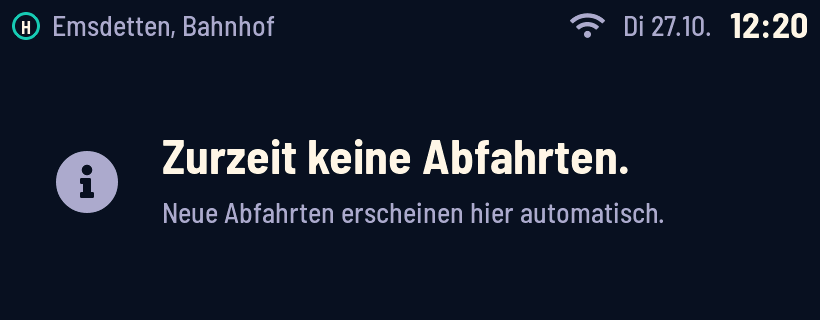
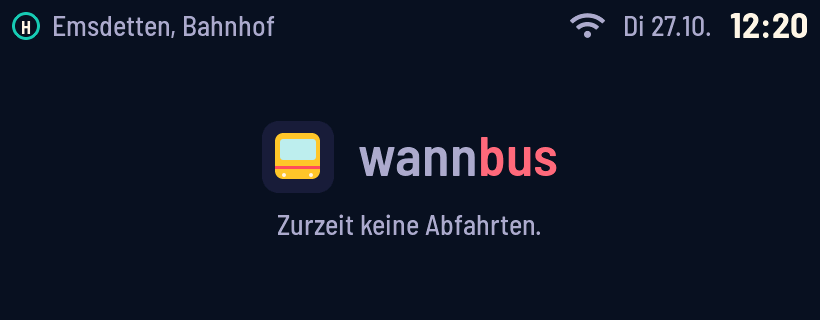
Marke im Leerlauf und auf freier Restfläche des Displays
Keine Abfahrten: Logo + Wortmarke mittig, darunter der Grund. Weniger
Abfahrten als Zeilen: Karten bleiben oben, im Rest die gedämpfte Marke
(groß/klein nach freiem Platz). Größe entscheidet lib/dispmodel
(brandForFreeSlots), geteilte Ansicht ohne Marke.

Changed region(s): [[0.1829, 0.375, 0.8232, 0.75], [0.061, 0.4688, 0.1524, 0.6875]]

diff --git a/src/ui/ui.cpp b/src/ui/ui.cpp
@@ -172,19 +172,34 @@ void logo(lv_obj_t *scr, int32_t x, int32_t y, int32_t size) {
   box(scr, x + s(83) - d / 2, y + s(90) - d / 2, d, d, abf::brand::kCream, LV_RADIUS_CIRCLE);
 }
 
-// Wortmarke „wann“ + „bus“ (Koralle) mit Grundlinie bei baseY; gibt die rechte Kante zurück
-int32_t wordmark(lv_obj_t *scr, const Palette &p, const lv_font_t *font, int32_t x, int32_t baseY) {
-  placeBaseline(label(scr, "wann", font, p.text), font, x, baseY);
+// Wortmarke „wann“ + „bus“ (Koralle) mit Grundlinie bei baseY; gibt die rechte Kante zurück.
+// Gedämpft (Leerlauf): „wann“ in muted, „bus“ in coral_text – nie stärker als eine Abfahrtszeile.
+int32_t wordmark(lv_obj_t *scr, const Palette &p, const lv_font_t *font, int32_t x, int32_t baseY, bool muted = false) {
+  placeBaseline(label(scr, "wann", font, muted ? p.muted : p.text), font, x, baseY);
   x += textWidth("wann", font);
-  placeBaseline(label(scr, "bus", font, abf::brand::kCoral), font, x, baseY);
+  placeBaseline(label(scr, "bus", font, muted ? p.coral : abf::brand::kCoral), font, x, baseY);
   return x + textWidth("bus", font);
+}
+
+int32_t brandWidth(const lv_font_t *font, int32_t iconSize) {
+  return iconSize + iconSize / 3 + textWidth("wann", font) + textWidth("bus", font);
 }
 
 // Logo + Wortmarke nebeneinander, Logo vertikal mittig zur Schrift
 void brandRow(lv_obj_t *scr, const Palette &p, const lv_font_t *font, int32_t iconSize, int32_t x, int32_t top,
-              int32_t height) {
+              int32_t height, bool muted = false) {
   logo(scr, x, top + (height - iconSize) / 2, iconSize);
-  wordmark(scr, p, font, x + iconSize + iconSize / 3, top + (height + capHeight(font)) / 2);
+  wordmark(scr, p, font, x + iconSize + iconSize / 3, top + (height + capHeight(font)) / 2, muted);
+}
+
+// Marke im freien Bereich [top, bottom) waagerecht und senkrecht mittig, gedämpft; gibt die Unterkante zurück
+int32_t brandCentered(lv_obj_t *scr, const Palette &p, abf::BrandMark mark, int32_t top, int32_t bottom) {
+  const bool large = mark == abf::BrandMark::Large;
+  const lv_font_t *font = large ? &ui_font_dest3 : &ui_font_dest4;
+  const int32_t icon = large ? 72 : 40;
+  const int32_t y = top + (bottom - top - icon) / 2;
+  brandRow(scr, p, font, icon, (kWidth - brandWidth(font, icon)) / 2, y, icon, true);
+  return y + icon;
 }
 
 // --- Kopfzeile -------------------------------------------------------------
@@ -298,15 +313,16 @@ void row(lv_obj_t *scr, const RowView &r, const RowMetrics &m, const Palette &p,
 }
 
 // Karten untereinander zwischen top und bottom; erste Karte hervorgehoben
-void cards(lv_obj_t *scr, const SectionView &s, const RowMetrics &m, const Palette &p, int32_t top, int32_t bottom,
-           int32_t slots) {
+// Gibt die Unterkante der letzten Karte zurück
+int32_t cards(lv_obj_t *scr, const SectionView &s, const RowMetrics &m, const Palette &p, int32_t top, int32_t bottom,
+              int32_t slots) {
   const int32_t rowH = (bottom - top - (slots - 1) * kGap) / std::max<int32_t>(1, slots);
   if (s.rows.empty()) {
     lv_obj_t *msg = label(scr, s.message, &ui_font_body, p.muted);
     singleLine(msg, &ui_font_body, kRight - kPadX);
     lv_obj_set_style_text_align(msg, LV_TEXT_ALIGN_CENTER, 0);
     placeBaseline(msg, &ui_font_body, kPadX, top + (bottom - top + capHeight(&ui_font_body)) / 2);
-    return;
+    return bottom;
   }
   const size_t n = std::min(s.rows.size(), static_cast<size_t>(std::max<int32_t>(0, slots)));
   int32_t badgeW = 0;
@@ -315,6 +331,7 @@ void cards(lv_obj_t *scr, const SectionView &s, const RowMetrics &m, const Palet
     row(scr, s.rows[i], m, p, kPadX, top + static_cast<int32_t>(i) * (rowH + kGap), kRight - kPadX, rowH, badgeW,
         i == 0);
   }
+  return n ? top + static_cast<int32_t>(n) * (rowH + kGap) - kGap : top;
 }
 
 // --- Bildschirme -----------------------------------------------------------
@@ -352,7 +369,10 @@ void drawBoard(lv_obj_t *scr, const View &v, const Palette &p) {
     bottom = y - kGap;
   }
   const int32_t slots = v.banner.empty() ? v.rows : v.rows - 1;
-  if (!v.sections.empty()) cards(scr, v.sections.front(), m, p, kPadY + headH + kGap, bottom, slots);
+  if (v.sections.empty()) return;
+  const int32_t used = cards(scr, v.sections.front(), m, p, kPadY + headH + kGap, bottom, slots);
+  // Weniger Abfahrten als Zeilen: Karten bleiben oben, im freien Rest die Marke (Größe entscheidet lib/dispmodel)
+  if (v.brandMark != abf::BrandMark::None) brandCentered(scr, p, v.brandMark, used, bottom);
 }
 
 const char *iconGlyph(Icon i) {
@@ -407,7 +427,18 @@ void drawMessage(lv_obj_t *scr, const View &v, const Palette &p) {
   const int32_t headH = headerHeight(v);
   header(scr, v, p, v.title, kPadY, headH, true);
   const int32_t bottom = v.address.empty() ? kHeight - kPadY : kHeight - kAddressH;
-  messageBlock(scr, p, v.icon, v.heading, v.text, kPadY + headH, bottom);
+  if (v.brandMark != abf::BrandMark::None) {
+    // Keine Abfahrten: ruhige Fläche mit Marke, darunter klein der Grund
+    const int32_t top = kPadY + headH;
+    const int32_t textH = capHeight(&ui_font_small) + 22;
+    const int32_t markBottom = brandCentered(scr, p, v.brandMark, top, bottom - textH);
+    lv_obj_t *t = label(scr, v.heading, &ui_font_small, p.muted);
+    singleLine(t, &ui_font_small, kRight - kPadX);
+    lv_obj_set_style_text_align(t, LV_TEXT_ALIGN_CENTER, 0);
+    placeBaseline(t, &ui_font_small, kPadX, markBottom + 22 + capHeight(&ui_font_small));
+  } else {
+    messageBlock(scr, p, v.icon, v.heading, v.text, kPadY + headH, bottom);
+  }
   if (!v.address.empty()) {
     // Adresse der Web-UI, damit man die Tafel auch ohne funktionierendes .local findet
     lv_obj_t *a = label(scr, v.address, &ui_font_small, p.muted);

diff --git a/lib/dispmodel/src/display_model.cpp b/lib/dispmodel/src/display_model.cpp
@@ -56,7 +56,7 @@ bool SectionView::operator==(const SectionView &o) const {
 
 bool View::operator==(const View &o) const {
   return screen == o.screen && theme == o.theme && backlight == o.backlight && header == o.header &&
-         title == o.title && brand == o.brand && clock == o.clock && date == o.date && wifi == o.wifi && updateAvailable == o.updateAvailable && page == o.page &&
+         title == o.title && brand == o.brand && brandMark == o.brandMark && clock == o.clock && date == o.date && wifi == o.wifi && updateAvailable == o.updateAvailable && page == o.page &&
          sections == o.sections && rows == o.rows && banner == o.banner && icon == o.icon &&
          heading == o.heading && text == o.text && steps == o.steps && qr == o.qr &&
          qrCaption == o.qrCaption && progress == o.progress && address == o.address;
@@ -108,6 +108,13 @@ std::string wifiQrPayload(const std::string &ssid) {
     esc += c;
   }
   return "WIFI:S:" + esc + ";T:nopass;;";
+}
+
+BrandMark brandForFreeSlots(size_t freeSlots, uint32_t rows) {
+  const uint32_t freePx = static_cast<uint32_t>(freeSlots) * (rows <= 3 ? kCardPx3 : kCardPx4);
+  if (freePx >= 150) return BrandMark::Large;
+  if (freePx >= 78) return BrandMark::Small;
+  return BrandMark::None;
 }
 
 RowView makeRow(const BoardRow &r, bool compactTrack) {
@@ -369,6 +376,7 @@ View buildScreen(const ViewInputs &in) {
   if (s.rows.empty()) {
     const BoardStatus st = s.status.status == BoardStatus::Ok ? BoardStatus::NoDepartures : s.status.status;
     messageScreen(v, statusIcon(st), boardStatusText(st), statusHint(st));
+    if (st == BoardStatus::NoDepartures) v.brandMark = BrandMark::Large;  // ruhige Fläche mit Marke statt Info-Symbol
     return v;
   }
 
@@ -380,6 +388,7 @@ View buildScreen(const ViewInputs &in) {
   }
   SectionView sec;
   for (size_t r = 0; r < s.rows.size() && r < rows; ++r) sec.rows.push_back(makeRow(s.rows[r], false));
+  v.brandMark = brandForFreeSlots(rows - sec.rows.size(), v.rows);
   v.sections.push_back(std::move(sec));
   return v;
 }

diff --git a/test/test_dispmodel/test_main.cpp b/test/test_dispmodel/test_main.cpp
@@ -191,6 +191,24 @@ static void test_view_brand_header_without_stop(void) {
   TEST_ASSERT_FALSE(buildView(boardInputs()).brand);  // mit Haltestelle: Ring + Name
 }
 
+static void test_brand_mark_in_free_space(void) {
+  // 4 Zeilen: 1 belegt → groß, 2 belegt → klein, 3–4 belegt → keine
+  TEST_ASSERT_EQUAL_INT(static_cast<int>(BrandMark::Large), static_cast<int>(buildView(boardInputs(1, 1)).brandMark));
+  TEST_ASSERT_EQUAL_INT(static_cast<int>(BrandMark::Small), static_cast<int>(buildView(boardInputs(1, 2)).brandMark));
+  TEST_ASSERT_EQUAL_INT(static_cast<int>(BrandMark::None), static_cast<int>(buildView(boardInputs(1, 3)).brandMark));
+  TEST_ASSERT_EQUAL_INT(static_cast<int>(BrandMark::None), static_cast<int>(buildView(boardInputs(1, 4)).brandMark));
+  // 3 Zeilen: 1 belegt → groß, 2 belegt → klein
+  ViewInputs in = boardInputs(1, 2);
+  in.cfg.rows = 3;
+  TEST_ASSERT_EQUAL_INT(static_cast<int>(BrandMark::Small), static_cast<int>(buildView(in).brandMark));
+  // geteilt: nie (zu wenig Platz)
+  TEST_ASSERT_EQUAL_INT(static_cast<int>(BrandMark::None), static_cast<int>(buildView(boardInputs(2, 1)).brandMark));
+  // keine Abfahrten: Marke groß auf der Meldung
+  View v = buildView(boardInputs(1, 0));
+  TEST_ASSERT_EQUAL_INT(static_cast<int>(Screen::Message), static_cast<int>(v.screen));
+  TEST_ASSERT_EQUAL_INT(static_cast<int>(BrandMark::Large), static_cast<int>(v.brandMark));
+}
+
 static void test_row_track_and_colors(void) {
   BoardRow r = row("RE15", "Münster Hbf", 5);
   r.track = "1";
@@ -459,6 +477,7 @@ int main(int, char **) {
   RUN_TEST(test_row_minutes_and_clock);
   RUN_TEST(test_row_delay_and_cancel);
   RUN_TEST(test_view_brand_header_without_stop);
+  RUN_TEST(test_brand_mark_in_free_space);
   RUN_TEST(test_row_track_and_colors);
   RUN_TEST(test_wifi_qr_escaping);
   RUN_TEST(test_view_board_four_and_three_rows);

diff --git a/lib/dispmodel/src/display_model.h b/lib/dispmodel/src/display_model.h
@@ -49,6 +49,8 @@ enum class Screen : uint8_t {
 enum class Icon : uint8_t { None, Info, Warning, Clock, Loading, NoWifi };
 enum class WifiMark : uint8_t { None, Ok, Off };
 enum class NoteKind : uint8_t { None, Delay, Cancelled };
+// Marke (Logo + Wortmarke) auf sonst leerer Fläche (BRANDING.md, Abschnitt 5): groß oder klein je nach freiem Platz
+enum class BrandMark : uint8_t { None, Small, Large };
 
 struct RowView {
   std::string line;
@@ -81,6 +83,7 @@ struct View {
   StopNameStyle header = StopNameStyle::Normal;  // Off: Titel ausgeblendet, langes Datum links
   std::string title;           // Haltestelle bzw. Gerätename
   bool brand = false;          // Kopf zeigt Logo + „wannbus“ statt Haltestellen-Ring (noch keine Haltestelle)
+  BrandMark brandMark = BrandMark::None;  // Board: Marke im freien Rest; Message: Marke statt Symbol (keine Abfahrten)
   std::string clock;           // "12:20" oder leer
   std::string date;            // "Di 27.10." bzw. bei Off "Dienstag, 27. Oktober"; leer ohne Uhrzeit
   WifiMark wifi = WifiMark::None;
@@ -133,7 +136,10 @@ struct ViewInputs {
 
 constexpr uint32_t kAlternateSeconds = 10;    // Wechselanzeige: Sekunden je Haltestelle
 constexpr int32_t kClockFromMinutes = 60;      // ab hier Uhrzeit statt Minuten
-constexpr size_t kSplitRows = 2;               // geteilte Ansicht: Zeilen je Haltestelle
+constexpr size_t kSplitRows = 2;
+// Höhe einer Abfahrtskarte samt Abstand (src/ui/ui.cpp), für die Wahl der Markengröße im freien Rest
+constexpr uint32_t kCardPx3 = 85, kCardPx4 = 63;
+BrandMark brandForFreeSlots(size_t freeSlots, uint32_t rows);               // geteilte Ansicht: Zeilen je Haltestelle
 constexpr int32_t kLateMinutes = 2;            // ab hier gilt eine Abfahrt als verspätet (rot)
 
 // Wie viele Abfahrten je Haltestelle aufbereitet werden müssen

diff --git a/src/sim/sim_main.cpp b/src/sim/sim_main.cpp
@@ -140,6 +140,19 @@ std::vector<Scenario> scenarios() {
   addStop(in, stop("Emsdetten, Bahnhof", emsdetten()));
   out.push_back({"board-4-zeilen", in});
 
+  // Marke im freien Rest (BRANDING.md, Abschnitt 5): 1 bzw. 2 Abfahrten bei 4 Zeilen
+  for (size_t n : {1, 2}) {
+    std::vector<BoardRow> few = emsdetten();
+    few.resize(n);
+    ViewInputs m = base();
+    addStop(m, stop("Emsdetten, Bahnhof", few));
+    out.push_back({n == 1 ? "marke-1-zeile" : "marke-2-zeilen", m});
+    if (n == 1) {
+      m.cfg.themeMode = ThemeMode::Day;
+      out.push_back({"marke-1-zeile-tag", m});
+    }
+  }
+
   ViewInputs night = in;
   night.cfg.themeMode = ThemeMode::Day;
   out.push_back({"board-4-zeilen-tag", night});
